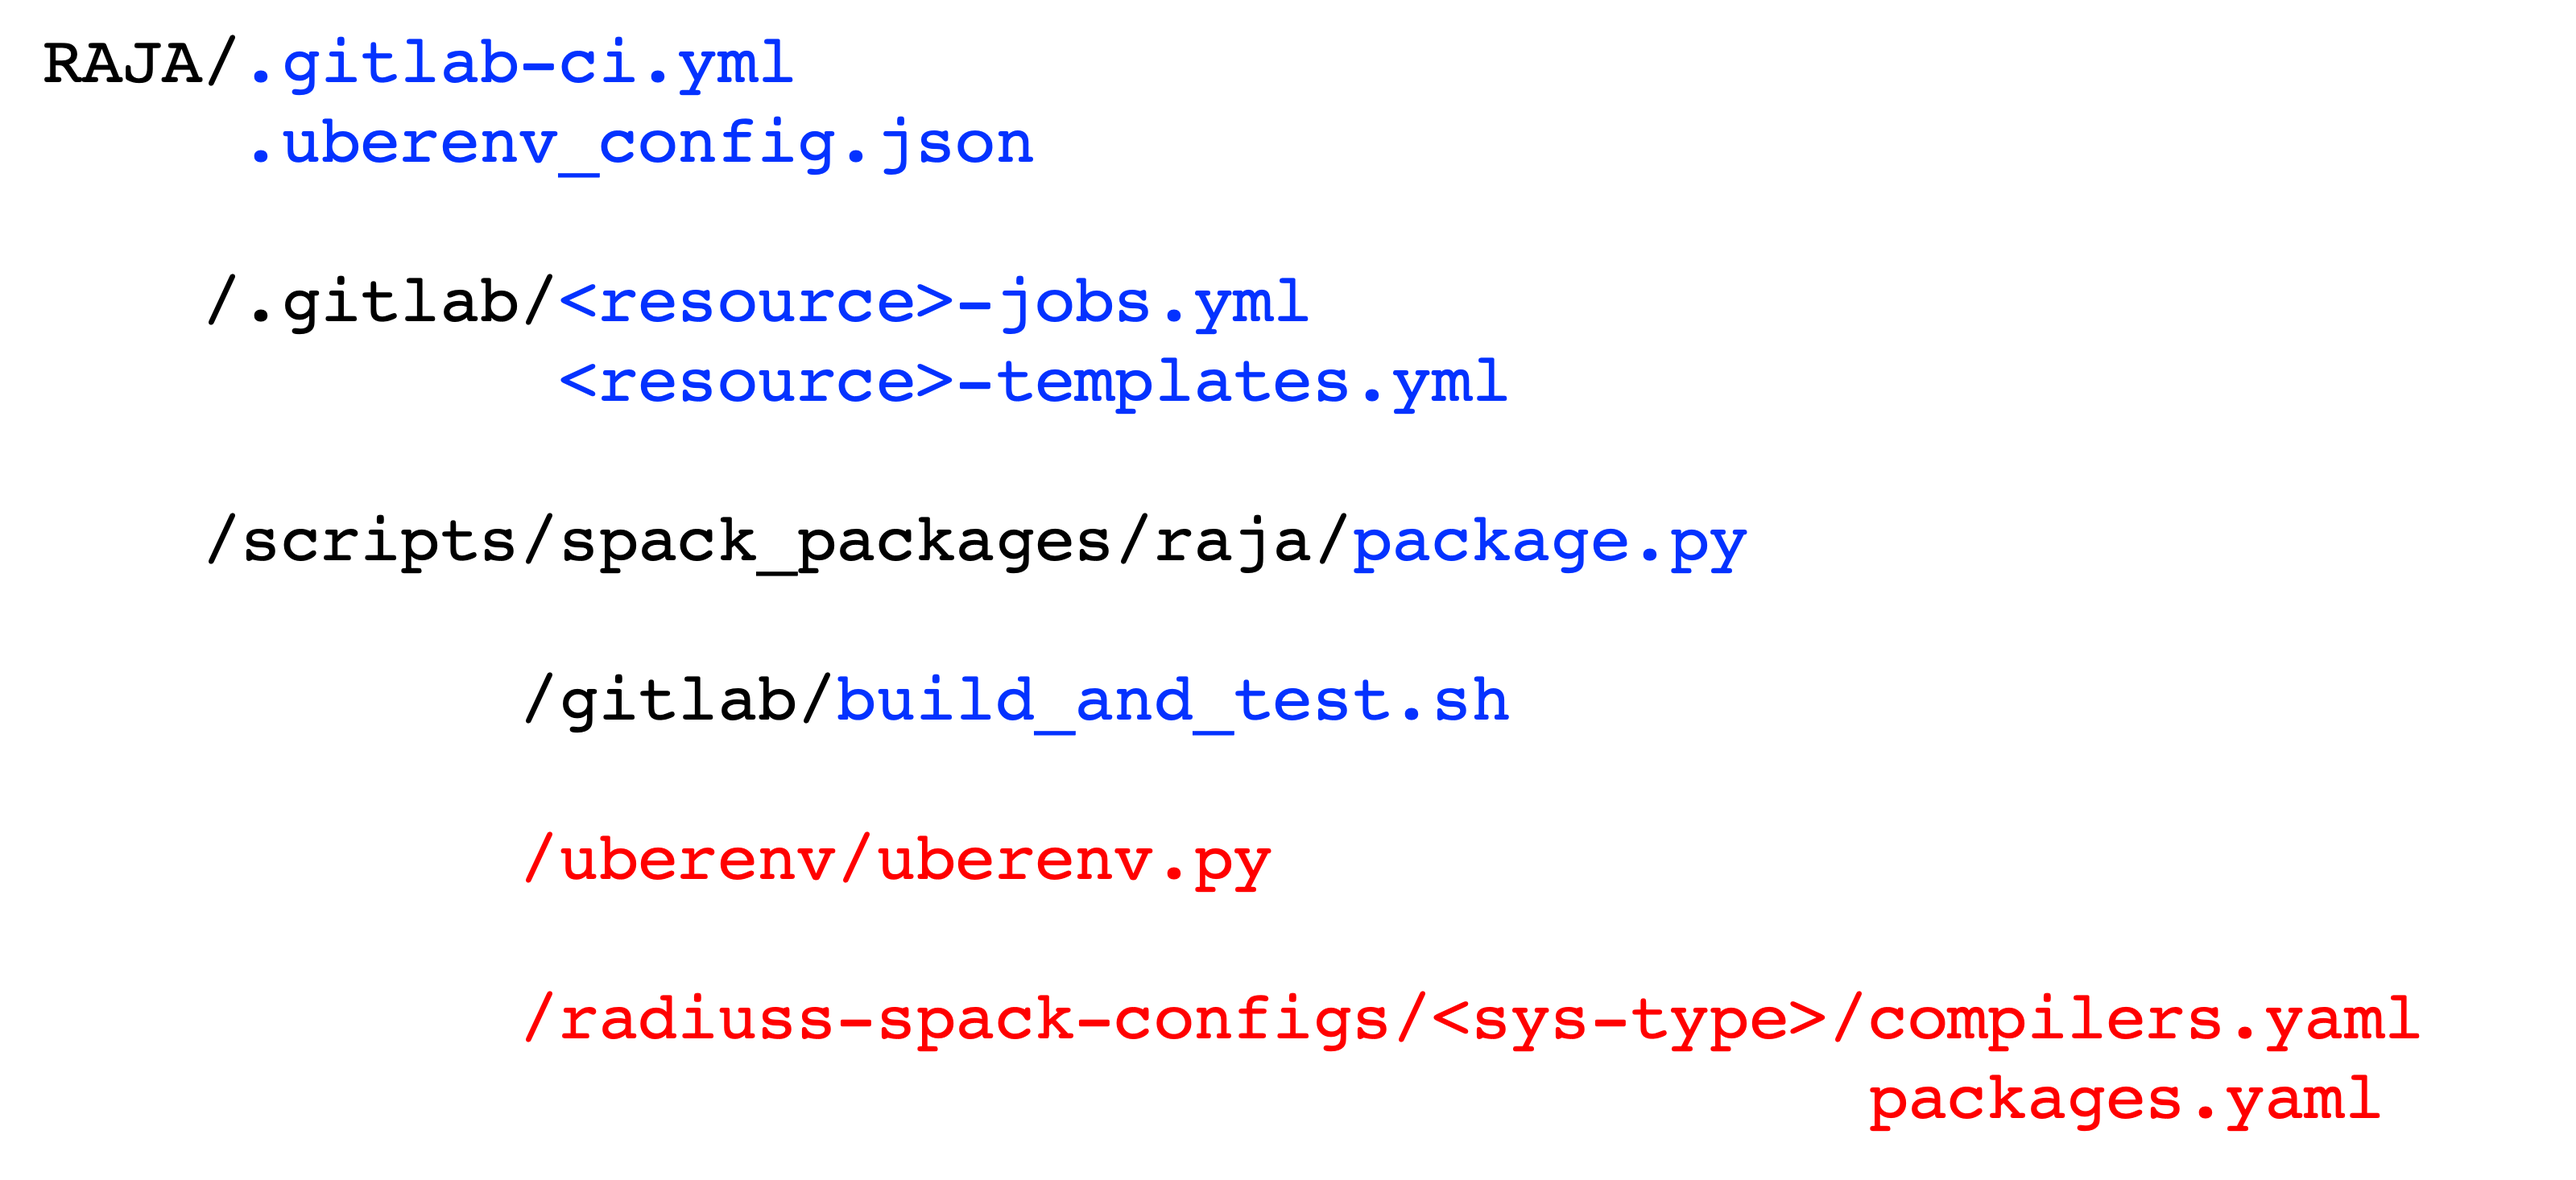
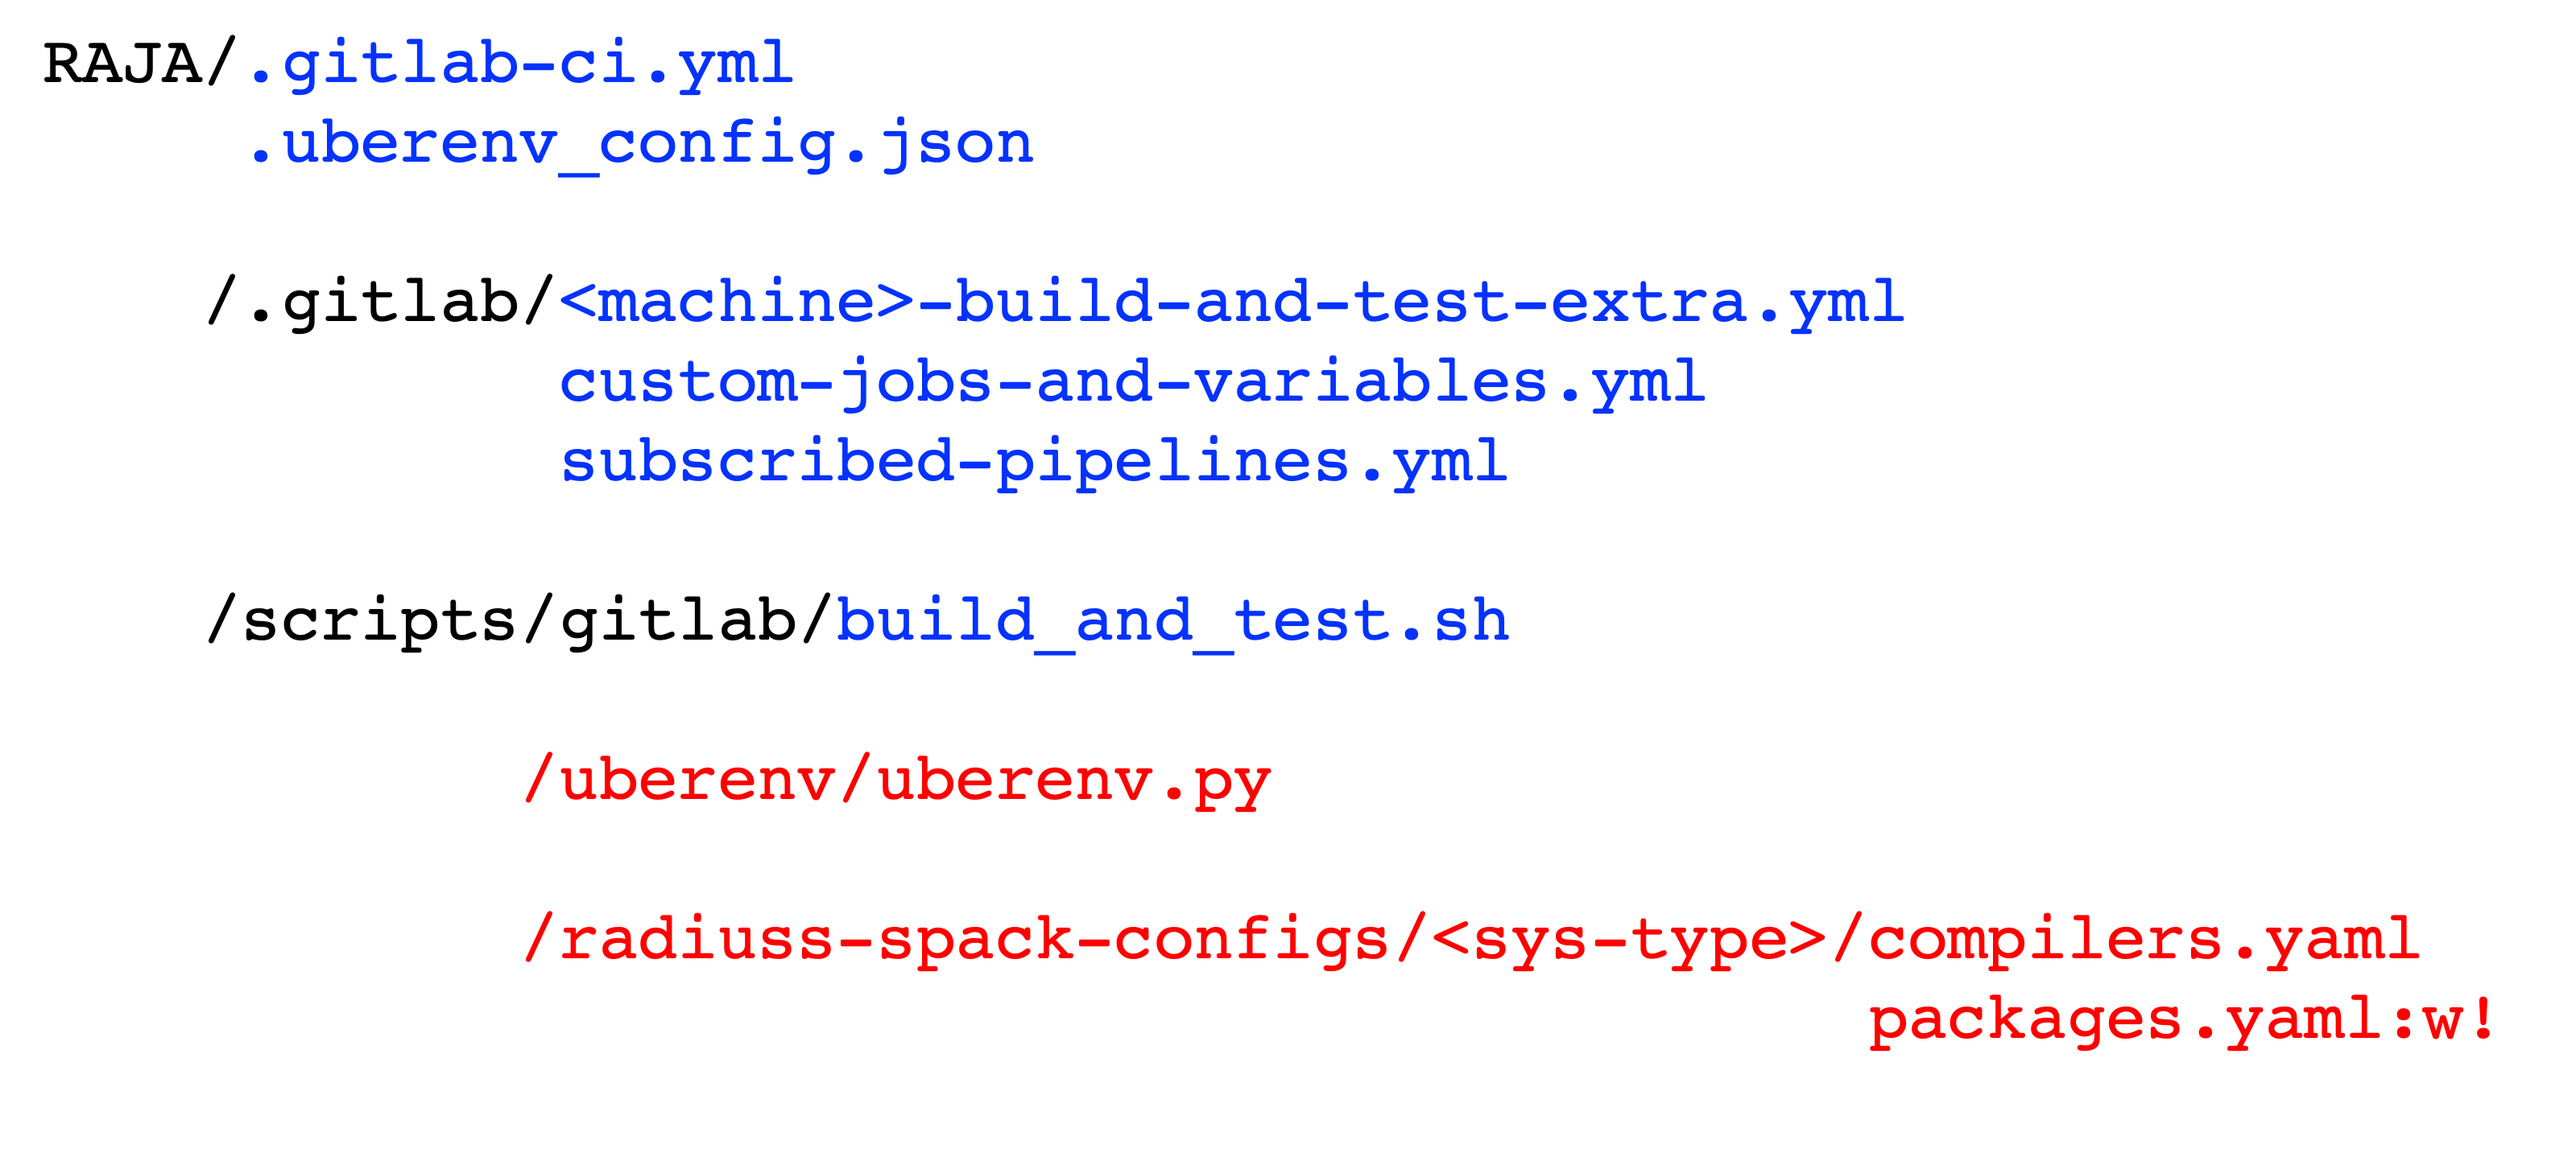
Update and add to early sections of Gitlab CI process include figure.
Other changes are for consistenct terminology in the text.

diff --git a/docs/sphinx/dev_guide/ci.rst b/docs/sphinx/dev_guide/ci.rst
@@ -12,9 +12,8 @@
 Continuous Integration (CI) Testing
 ************************************
 
-.. important:: * All CI test checks must pass before a pull request can be
-                 merged.
-               * The status (pass/fail and run) for all checks can be viewed by
+.. important:: * All CI checks must pass before a pull request can be merged.
+               * The status (run and pass/fail) for all checks can be viewed by
                  clicking the appropriate link in the **checks** section of a
                  GitHub pull request.
 
@@ -28,10 +27,10 @@ The CI tools used by the RAJA project, and which integrate with GitHub are:
     more about our testing there.
 
   * **Gitlab** instances in the Livermore Computing (LC) Center
-    runs builds and tests in LC resource and compiler environments
+    runs builds and tests in LC platform and compiler environments
     important to many RAJA user applications. Execution of RAJA CI 
     pipelines on LC Gitlab resources has restrictions described below. If 
-    you have access to LC resources, you can access additional information about
+    you have access to LC platforms, you can access additional information about
     `LC GitLab CI <https://lc.llnl.gov/confluence/display/GITLAB/GitLab+CI>`_
 
 The tools automatically run RAJA builds and tests when a PR is created and 
@@ -47,12 +46,12 @@ Gitlab CI
 
 The Gitlab CI instance used by the RAJA project lives in the Livermore 
 Computing (LC) Collaboration Zone (CZ). It runs builds and tests in LC 
-resource and compiler environments important to RAJA user applications at LLNL.
+platform and compiler environments important to RAJA user applications at LLNL.
 
 Constraints
 -----------
 
-Running Gitlab CI on Livermore Computing (LC) resources is constrained by LC 
+Running Gitlab CI on Livermore Computing (LC) platforms is constrained by LC 
 security policies. The policies require that all members of a GitHub project 
 be members of the LLNL GitHub organization and have two-factor authentication 
 enabled on their GitHub accounts to automatically mirror a GitHub repo and
@@ -60,7 +59,7 @@ trigger Gitlab CI functionality from GitHub. For compliant LLNL GitHub projects,
 auto-mirroring of the GitHub repo on LC Gitlab is done when changes are pushed 
 to PRs for branches in the RAJA repo, but not for PRs for a branch on a fork of
 the repo. An alternative procedure we use to handle this is described in 
-:ref:`contributing-label`. If you have access to LC resources, you can learn
+:ref:`contributing-label`. If you have access to LC platforms, you can learn
 more about `LC Gitlab mirroring <https://lc.llnl.gov/confluence/pages/viewpage.action?pageId=662832265>`_.
 
 Gitlab CI (LC) Testing Workflow
@@ -69,12 +68,13 @@ Gitlab CI (LC) Testing Workflow
 The figure below shows the high-level steps in the RAJA Gitlab CI testing 
 process. The main steps, which we will discuss in more detail later, are:
 
-  #. A *mirror* of the RAJA GitHub repo in the RAJA Gitlab project is updated
-     whenever the RAJA ``develop`` or ``main`` branches are changed as well
-     as when any PR branch in the RAJA GitHub project is changed. 
+  #. A *mirror* of the RAJA GitHub repo in the RAJA LC CZ Gitlab project is 
+     updated whenever the RAJA ``develop`` or ``main`` branches are changed 
+     as well as when any PR branch in the RAJA GitHub project is changed. 
   #. Gitlab launches CI test pipelines. While running, the execution and 
-     pass/fail status may be viewed and monitored in the Gitlab CI GUI.
-  #. For each resource and compiler combination,
+     pass/fail status may be viewed and monitored in the Gitlab CI GUI,
+     or in the RAJA GitHub project checks section for a PR.
+  #. For each platform and compiler combination,
      `Spack <https://github.com/spack/spack>`_ is used to generate a build 
      configuration in the form of a CMake cache file, or *host-config* file.
   #. A host-config file is passed to CMake, which configures a RAJA build 
@@ -82,17 +82,41 @@ process. The main steps, which we will discuss in more detail later, are:
   #. Next, the RAJA tests are run.
   #. When a test pipeline completes, final results are reported in Gitlab.
 
-In the next section, we will describe the roles that specific files in the 
-RAJA repo play in defining these steps.
-
 .. figure:: ./figures/RAJA-Gitlab-Workflow2.png
 
    The main steps in the RAJA Gitlab CI testing workflow are shown in the 
    figure. This process is triggered when a developer makes a PR on the 
    GitHub project or whenever changes are pushed to the source branch of a PR.
 
-Gitlab CI (LC) Testing Files
---------------------------------------
+In the next several sections, we describe the roles that external projects and
+files in the RAJA repo play in the RAJA Gitlab CI workflow.
+
+Gitlab CI Testing Dependencies (specific to LC CZ)
+---------------------------------------------------
+
+RAJA Gitlab CI testing depends on several other projects that are shared with
+other projects. These include
+
+  * `RADIUSS Shared CI <https://github.com/LLNL/radiuss-shared-ci>`_, which
+    is a centralized framework for software testing with Gitlab CI. The 
+    project is on GitHub and is mirrored to the LC CZ Gitlab instance, where
+    it is used by multiple projects. Spack packages for projects that use 
+    RADIIUSS Shared CI are maintained in the project for consistency and 
+    collective upstreaming to the Spack project.
+  * `Spack <https://github.com/spack/spack>`_, which is a widely used
+    multi-platform package manager that builds and installs software.
+  * `Uberenv <https://github.com/LLNL/uberenv>`_, which is a python script
+    that helps to automate use of Spack and other tools for building third-party
+    dependencies. Uberenv is a submodule in RAJA that lives in 
+    ``RAJA/scripts/uberenv/``.
+  * `RADIUSS Spack Configs <https://github.com/LLNL/radiuss-spack-configs>`_, 
+    which is a collection of Spack compiler and package configurations that
+    is specific to LLNL LC platforms and used by multiple projects. RADIUSS
+    Spack Configs is a submodule in RAJA that lives in 
+    ``RAJA/scripts/radiuss-spack-configs/``.
+
+Gitlab CI Testing Files (specific to LC CZ)
+--------------------------------------------
 
 The following figure shows directories and files in the RAJA repo that 
 support LC Gitlab CI testing. Files with names in blue are specific to RAJA 
@@ -105,6 +129,24 @@ in Git submodules, shared and maintained with other projects.
    CI testing. Files in blue are specific to RAJA and owned by the RAJA team. 
    Red directories and files are part of Git submodules shared with other 
    projects.
+
+Briefly, these files play the following roles in our Gitlab CI testing:
+
+  * The ``RAJA/.gitlab-ci.yml`` file defines general behavior that applied 
+    to all Gitlab testing configurations, such as service user account 
+    (if used), high-level job stages, cross-project testing (if used), etc.
+  * The ``.uberenv_config.json`` file defines information about how Spack is
+    used, such as the Spack version, where the RAJA Spack package lives, 
+    where the Spack specs live, etc.
+  * Files in the ``RAJA/.gitlab`` directory describe which test pipelines
+    are subscribed to that are defined in the 
+    `RADIUSS Shared CI <https://github.com/LLNL/radiuss-shared-ci>`_ project, 
+    which jobs to run on each machine in addition to the shared pipelines, and 
+    any project-specific job customization that is used, such as job time 
+    limits, etc. These files are customizations of the templates provided by
+    `RADIUSS Shared CI <https://github.com/LLNL/radiuss-shared-ci>`_.
+  * The ``RAJA/scripts/gitlab/build_and_test.sh`` file defines the build and
+    test process and the commands that are run during it.
 
 In the following sections, we discuss how these files are used in the 
 steps in the RAJA Gitlab CI testing process summarized above.
@@ -145,7 +187,7 @@ title of a column containing other information about what is run in that stage,
 such as build and test jobs.
 
 The `RAJA/.gitlab <https://github.com/LLNL/RAJA/tree/develop/.gitlab>`_ 
-directory contains a *templates* and *jobs* file for each LC resource on which 
+directory contains a *templates* and *jobs* file for each LC platform on which 
 test pipelines will be run. The ``<resource>-templates.yml`` files contain 
 information that is common across jobs that run on the corresponding resource, 
 such as commands and scripts that are run for stages identified in the 

diff --git a/docs/sphinx/dev_guide/contributing.rst b/docs/sphinx/dev_guide/contributing.rst
@@ -12,7 +12,7 @@
 Contributing to RAJA
 *********************
 
-RAJA is a collaborative open source software project and we encourage 
+RAJA is a collaborative open-source software project and we encourage 
 contributions from anyone who wants to add features or improve its
 capabilities. This section describes the following:
 

diff --git a/docs/sphinx/dev_guide/ci_tasks.rst b/docs/sphinx/dev_guide/ci_tasks.rst
@@ -23,7 +23,7 @@ Gitlab CI Tasks
 =================
 
 The tasks in this section apply to GitLab CI running on Livermore
-Computing (LC) resources.
+Computing (LC) platforms.
 
 Changing Build Specs
 ---------------------
